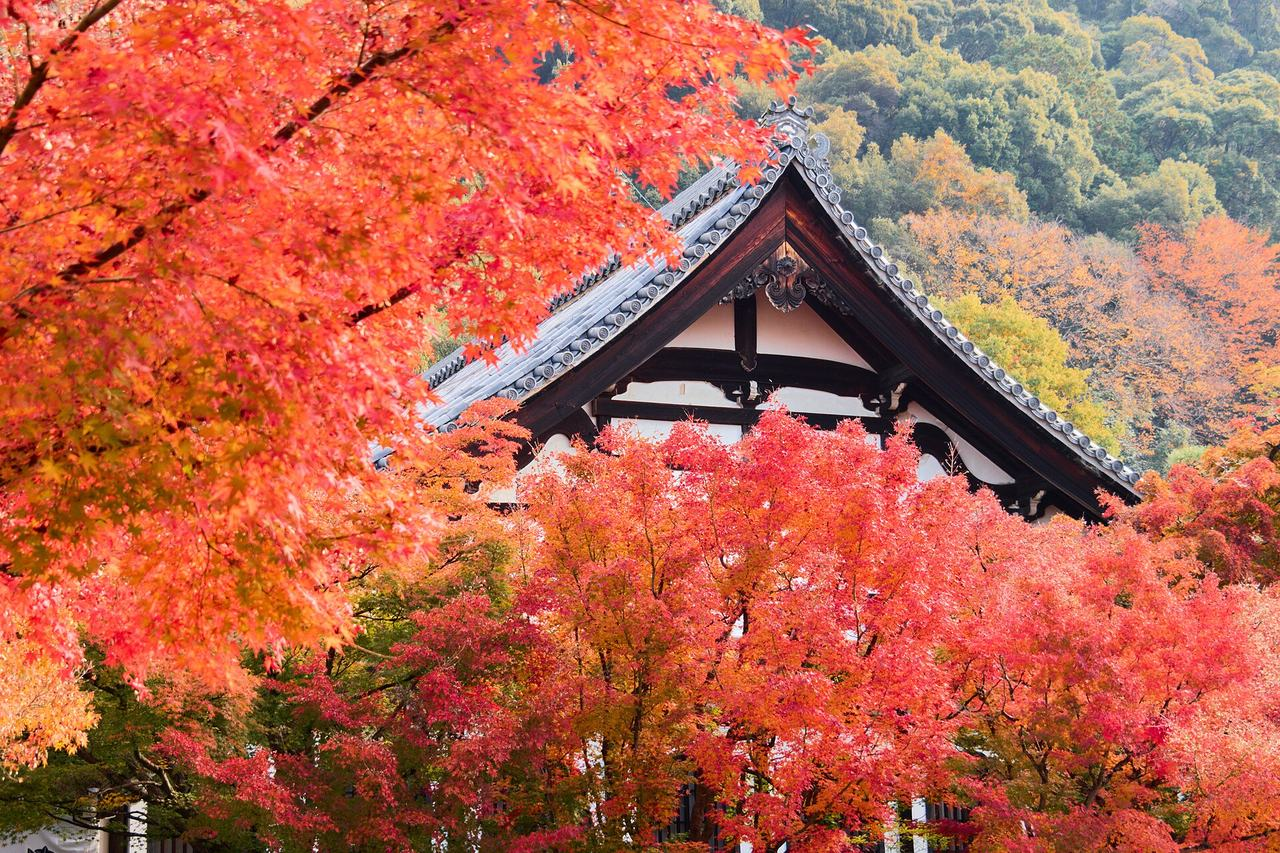
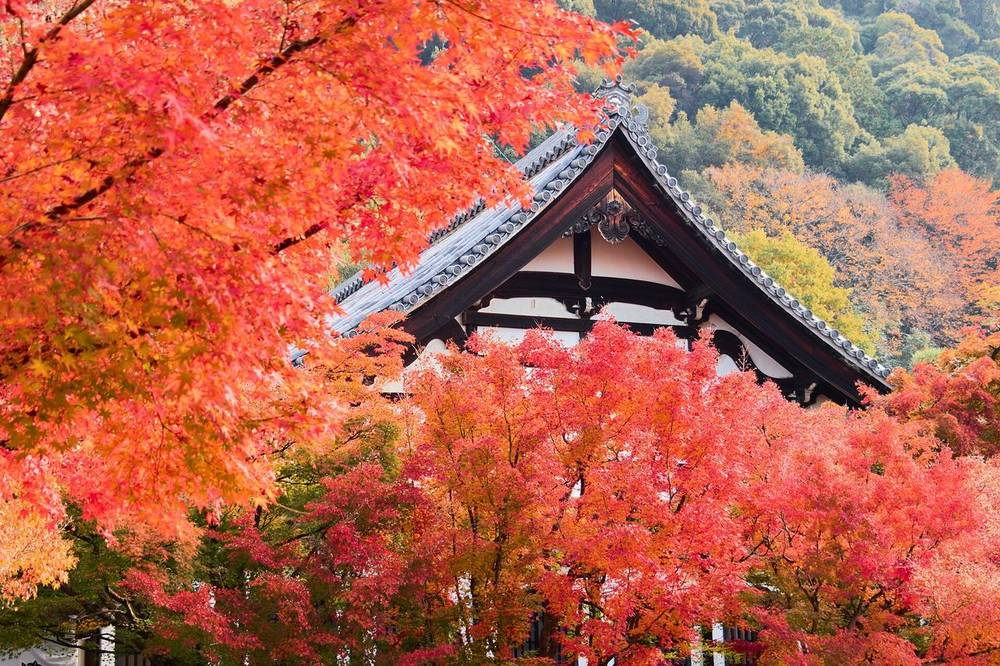
Light sakura theme, thumbnails, smaller covers

diff --git a/index.html b/index.html
@@ -2517,6 +2517,7 @@ function catIcon(p){const t=((p.cat||'')+' '+(p.list||'')).toLowerCase(); const 
   if(has(/museum|castle|aquarium|observation|theater|digital art|showroom|historic|landmark/)) return 'lantern'; return 'onigiri'; }
 function photoFor(key){return (window.PHOTOS||{})[key]||null;}
 function placePhoto(id){const r=(window.PLACE_PHOTOS||{})[id]; return r&&r.file?r:null;}
+function thumb(pp){return pp.file.replace('img/pl/','img/pl/t/');}
 function srcChip(p){return p.src==='you'?`<span class="chip you">Your list</span>`:`<span class="chip pick">Claude pick</span>`;}
 
 // ---------- state + storage ----------
@@ -2551,7 +2552,7 @@ function toggle(id,v){ if(v) STATE.checks[id]=true; else delete STATE.checks[id]
 // ---------- toast + drawer ----------
 let toastT=null; function toast(t){const el=$('#toast'); el.textContent=t; el.classList.add('on'); clearTimeout(toastT); toastT=setTimeout(()=>el.classList.remove('on'),1400);}
 function openPlace(id){ const p=ALL[id]; if(!p) return; const dayFor=DAYS.filter(d=>d.stops.some(s=>s.ref===id&&!s.opt)); const dayTxt=dayFor.length?dayFor.map(d=>`<a class="link" href="#day${d.n}" data-go="days" data-day="${d.n}">Day ${d.n} · ${niceDate(d.date)}</a>`).join(' · '):(p.day?`suggested Day ${p.day}`:'not scheduled');
-  const pp=placePhoto(p.id); $('#drawer-body').innerHTML=`<div class="place">${pp?`<img class="hero-img" src="${esc(pp.file)}" alt="${esc(p.name)}" loading="lazy">`:''}<div class="head"><span class="sticker">${ICON(catIcon(p))}</span><b>${esc(p.name)}</b> ${srcChip(p)} <span class="chip tag">${esc(p.cat||'')}</span></div>
+  const pp=placePhoto(p.id); $('#drawer-body').innerHTML=`<div class="place">${pp?`<img class="hero-img" src="${esc(pp.file)}" alt="${esc(p.name)}" decoding="async">`:''}<div class="head"><span class="sticker">${ICON(catIcon(p))}</span><b>${esc(p.name)}</b> ${srcChip(p)} <span class="chip tag">${esc(p.cat||'')}</span></div>
   ${p.rating?`<div class="rating">★ ${p.rating} · ${Number(p.reviews||0).toLocaleString('en-US')} reviews · ${esc(p.list)}</div>`:`<div class="rating">${esc(p.list)}</div>`}
   <dl class="kv">
    ${p.area?`<dt>Area</dt><dd>${esc(p.area)}</dd>`:''}
@@ -2584,14 +2585,14 @@ function dayCard(d){ let prev=null; const mode=d.drive?'driving':'transit';
     if(p&&p.lat){ if(prev&&!s.opt&&prev.id!==p.id) dir=`<a class="link" target="_blank" rel="noopener" href="${esc(dirLink(prev,p,mode))}">Directions from ${esc(prev.name.split(' (')[0])}</a>`; if(!s.opt) prev=p; }
     const hours=p&&p.hours?`<span class="muted mono">${esc(p.hours)}</span>`:'';
     const pp=p?placePhoto(p.id):null;
-    return `<div class="stop${s.opt?' opt':''}${done?' done':''}"><div class="t">${esc(s.t)}</div><div class="row">${pp?`<img class="mini" src="${esc(pp.file)}" alt="" loading="lazy" data-place="${p.id}" style="cursor:pointer">`:''}<div class="body" style="min-width:0">
+    return `<div class="stop${s.opt?' opt':''}${done?' done':''}"><div class="t">${esc(s.t)}</div><div class="row">${pp?`<img class="mini" src="${esc(thumb(pp))}" alt="" loading="lazy" decoding="async" data-place="${p.id}" style="cursor:pointer">`:''}<div class="body" style="min-width:0">
       <div class="name">${stopName(s)}</div>
       ${s.note?`<div class="note">${esc(s.note)}</div>`:''}
       ${s.travel?`<div class="travel">→ ${esc(s.travel)}</div>`:''}
       <div class="meta">${hours}${p?`<a class="link" target="_blank" rel="noopener" href="${esc(mapsLink(p))}">Maps</a>`:''}${dir}<label class="small muted"><input type="checkbox" data-check="${id}" ${done?'checked':''}> done</label></div>
     </div></div></div>`; }).join('');
   const tags=(d.tags||[]).map(t=>`<span class="chip tag ${esc(t)}">${TAG_ICON[t]?ICON(TAG_ICON[t]):''}${esc(t)}</span>`).join('')+(d.chill?`<span class="chip pick">${ICON('onsen')}chill day</span>`:'')+(d.drive?`<span class="chip you">${ICON('car')}car day</span>`:'')+(d.holiday?'<span class="chip tag">public holiday</span>':'');
-  const ph=photoFor('d'+d.n); const cover=ph?`<div class="cover"><img src="${esc(ph.file)}" alt="${esc(ph.alt||'')}" loading="lazy"><span class="daynum">Day ${d.n}</span><span class="credit">📷 ${esc(ph.artist.split(' ')[0]||'Commons')}</span><span class="mascot sticker lg">${ICON(DAY_MASCOT[d.n]||'onigiri')}</span></div>`:'';
+  const ph=photoFor('d'+d.n); const cover=ph?`<div class="cover"><img src="${esc(ph.file)}" alt="${esc(ph.alt||'')}" loading="lazy" decoding="async"><span class="daynum">Day ${d.n}</span><span class="credit">📷 ${esc(ph.artist.split(' ')[0]||'Commons')}</span><span class="mascot sticker lg">${ICON(DAY_MASCOT[d.n]||'onigiri')}</span></div>`:'';
   return `<article class="card day" id="day-${d.n}">${cover}<div class="day-head"><span class="date">Day ${d.n} · ${niceDate(d.date)}</span><h2>${esc(d.title)}</h2></div>
    <div class="chips">${tags}<span class="chip day">stay: ${esc(d.base)}</span><span class="chip day">≈ ${fmtY(d.budget)} · ${fmtR(d.budget*STATE.budget.rate)}</span></div>
    <p class="why">${esc(d.why)}</p><div class="stops">${rows}</div></article>`; }
@@ -2627,7 +2628,7 @@ function renderLiveMap(day, route, pts){ const v=$('#view-map'); const side=day?
   const group=L.featureGroup().addTo(LMAP);
   const seen=new Set(route.map(p=>p.id));
   pts.forEach(p=>{ const onRoute=seen.has(p.id); const m=L.circleMarker([p.lat,p.lng],{radius:day?(onRoute?9:4):7,color:'#fff',weight:1.5,fillColor:p.src==='you'?'#d8482a':'#1f8a9c',fillOpacity:day&&!onRoute?.45:.95}).addTo(group); const pp=placePhoto(p.id);
-    m.bindPopup(`${pp?`<img src="${esc(pp.file)}" alt="">`:''}<div class="pn">${esc(p.name)}</div><div>${p.hours?esc(p.hours):''}</div>${p.best?`<div class="muted">${esc(p.best)}</div>`:''}<div style="margin-top:6px"><a href="#" data-place="${p.id}">Details</a> · <a target="_blank" rel="noopener" href="${esc(mapsLink(p))}">Google Maps</a></div>`); });
+    m.bindPopup(`${pp?`<img src="${esc(thumb(pp))}" alt="">`:''}<div class="pn">${esc(p.name)}</div><div>${p.hours?esc(p.hours):''}</div>${p.best?`<div class="muted">${esc(p.best)}</div>`:''}<div style="margin-top:6px"><a href="#" data-place="${p.id}">Details</a> · <a target="_blank" rel="noopener" href="${esc(mapsLink(p))}">Google Maps</a></div>`); });
   if(route.length){ const line=L.polyline(route.map(p=>[p.lat,p.lng]),{color:dark?'#fff':'#171a21',weight:2.5,dashArray:'5 6',opacity:.8}).addTo(group); route.forEach((p,i)=>{ L.marker([p.lat,p.lng],{icon:L.divIcon({className:'',html:`<div style="width:22px;height:22px;border-radius:50%;background:${p.src==='you'?'#d8482a':'#1f8a9c'};color:#fff;font:700 11px/22px ${'var(--mono)'};text-align:center;border:2px solid #fff;box-shadow:0 1px 4px rgba(0,0,0,.4)">${i+1}</div>`,iconSize:[22,22],iconAnchor:[11,11]})}).addTo(group).bindTooltip(p.name.split(' (')[0]); }); }
   const core=(route.length?route:pts).filter(p=>p.lat>34&&p.lat<37.6&&p.lng>134.5&&p.lng<140.6); const b=L.latLngBounds(core.map(p=>[p.lat,p.lng])); if(core.length&&b.isValid()) LMAP.fitBounds(b.pad(0.08),{maxZoom:14}); else LMAP.setView([35.68,139.75],11);
   $('#mapday').addEventListener('change',e=>{MAPV.day=Number(e.target.value); renderMap();});
@@ -2679,7 +2680,7 @@ function renderPlaces(){ const v=$('#view-places'); const lists=[...new Set(PLAC
   $('#plist').addEventListener('change',e=>{FILTER.list=e.target.value; renderPlaces();});
   $('#psched').addEventListener('change',e=>{FILTER.sched=e.target.value; renderPlaces();}); }
 function dayOf(p){const d=DAYS.find(d=>d.stops.some(s=>s.ref===p.id&&!s.opt)); return d?d.n:0;}
-function placeCard(p){ const dn=dayOf(p); const pp=placePhoto(p.id); return `<div class="card place">${pp?`<img class="thumb" src="${esc(pp.file)}" alt="" loading="lazy">`:''}<div class="head">${ICON(catIcon(p))}<b><button class="pl" style="border:0;background:none;padding:0;font:inherit;font-weight:600;color:inherit;cursor:pointer;text-align:left" data-place="${p.id}">${esc(p.name)}</button></b>${srcChip(p)}${dn?`<a class="chip day" href="#day${dn}" data-go="days" data-day="${dn}">Day ${dn}</a>`:'<span class="chip tag">not scheduled</span>'}</div>
+function placeCard(p){ const dn=dayOf(p); const pp=placePhoto(p.id); return `<div class="card place">${pp?`<img class="thumb" src="${esc(thumb(pp))}" alt="" loading="lazy" decoding="async">`:''}<div class="head">${ICON(catIcon(p))}<b><button class="pl" style="border:0;background:none;padding:0;font:inherit;font-weight:600;color:inherit;cursor:pointer;text-align:left" data-place="${p.id}">${esc(p.name)}</button></b>${srcChip(p)}${dn?`<a class="chip day" href="#day${dn}" data-go="days" data-day="${dn}">Day ${dn}</a>`:'<span class="chip tag">not scheduled</span>'}</div>
   <div class="rating">${p.rating?`★ ${p.rating} · ${Number(p.reviews||0).toLocaleString('en-US')}`:''} ${p.cat?'· '+esc(p.cat):''} ${p.area?'· '+esc(p.area):''}</div>
   <dl class="kv">${p.hours?`<dt>Hours</dt><dd>${esc(p.hours)}</dd>`:''}${p.best?`<dt>Best</dt><dd>${esc(p.best)}</dd>`:''}${p.use?`<dt>Why</dt><dd>${esc(p.use)}</dd>`:''}${p.note?`<dt>Your note</dt><dd>“${esc(p.note)}”</dd>`:''}${p.tip?`<dt>Tip</dt><dd>${esc(p.tip)}</dd>`:''}</dl>
   <div><a class="link small" target="_blank" rel="noopener" href="${esc(mapsLink(p))}">Google Maps ↗</a></div></div>`; }
